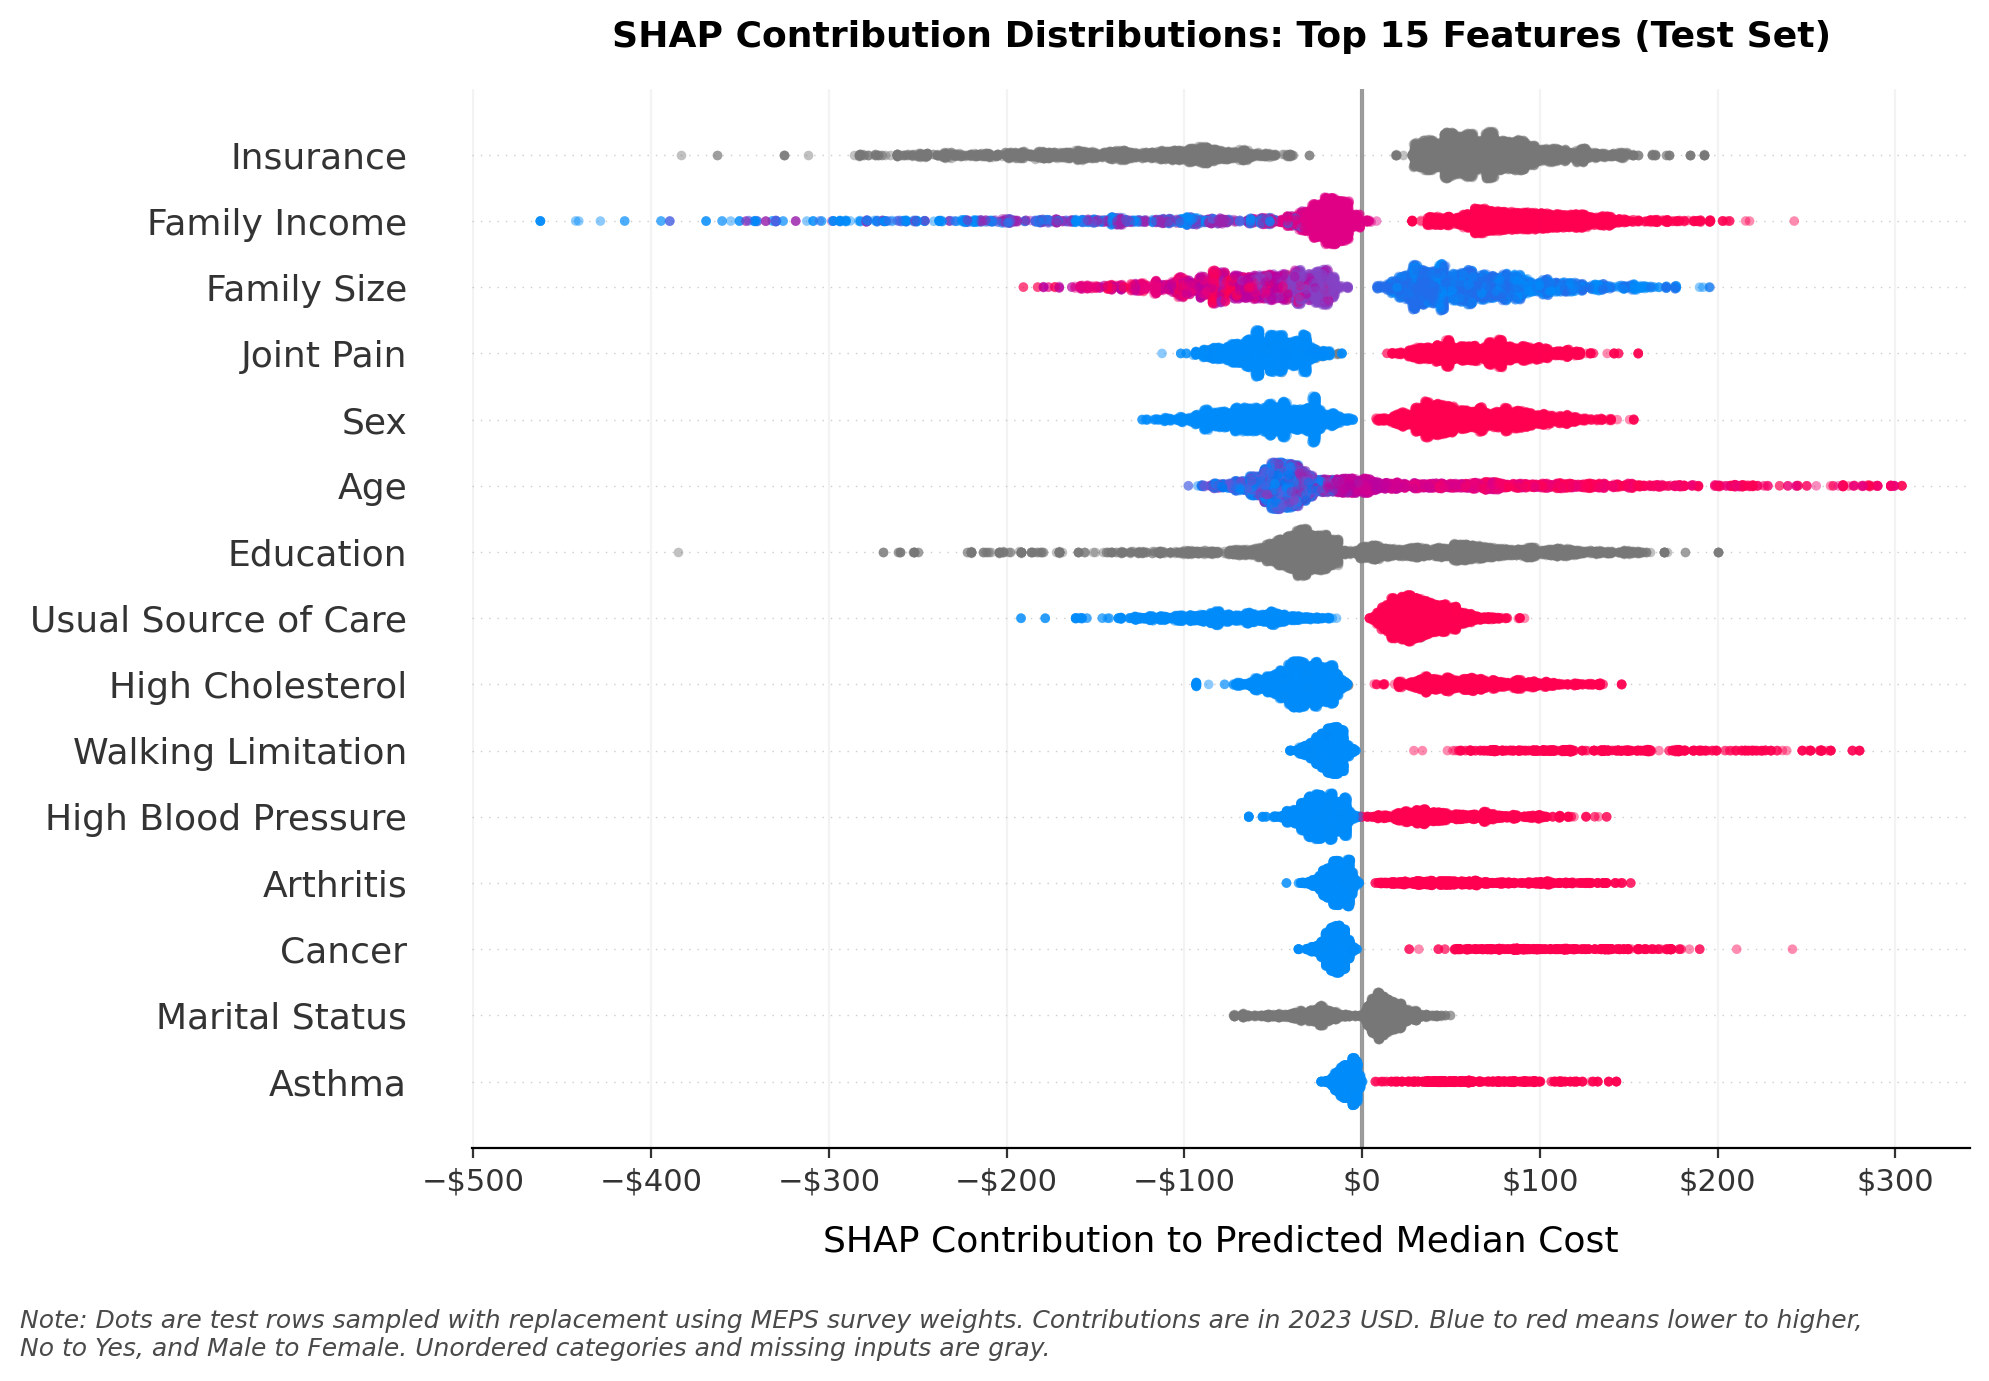
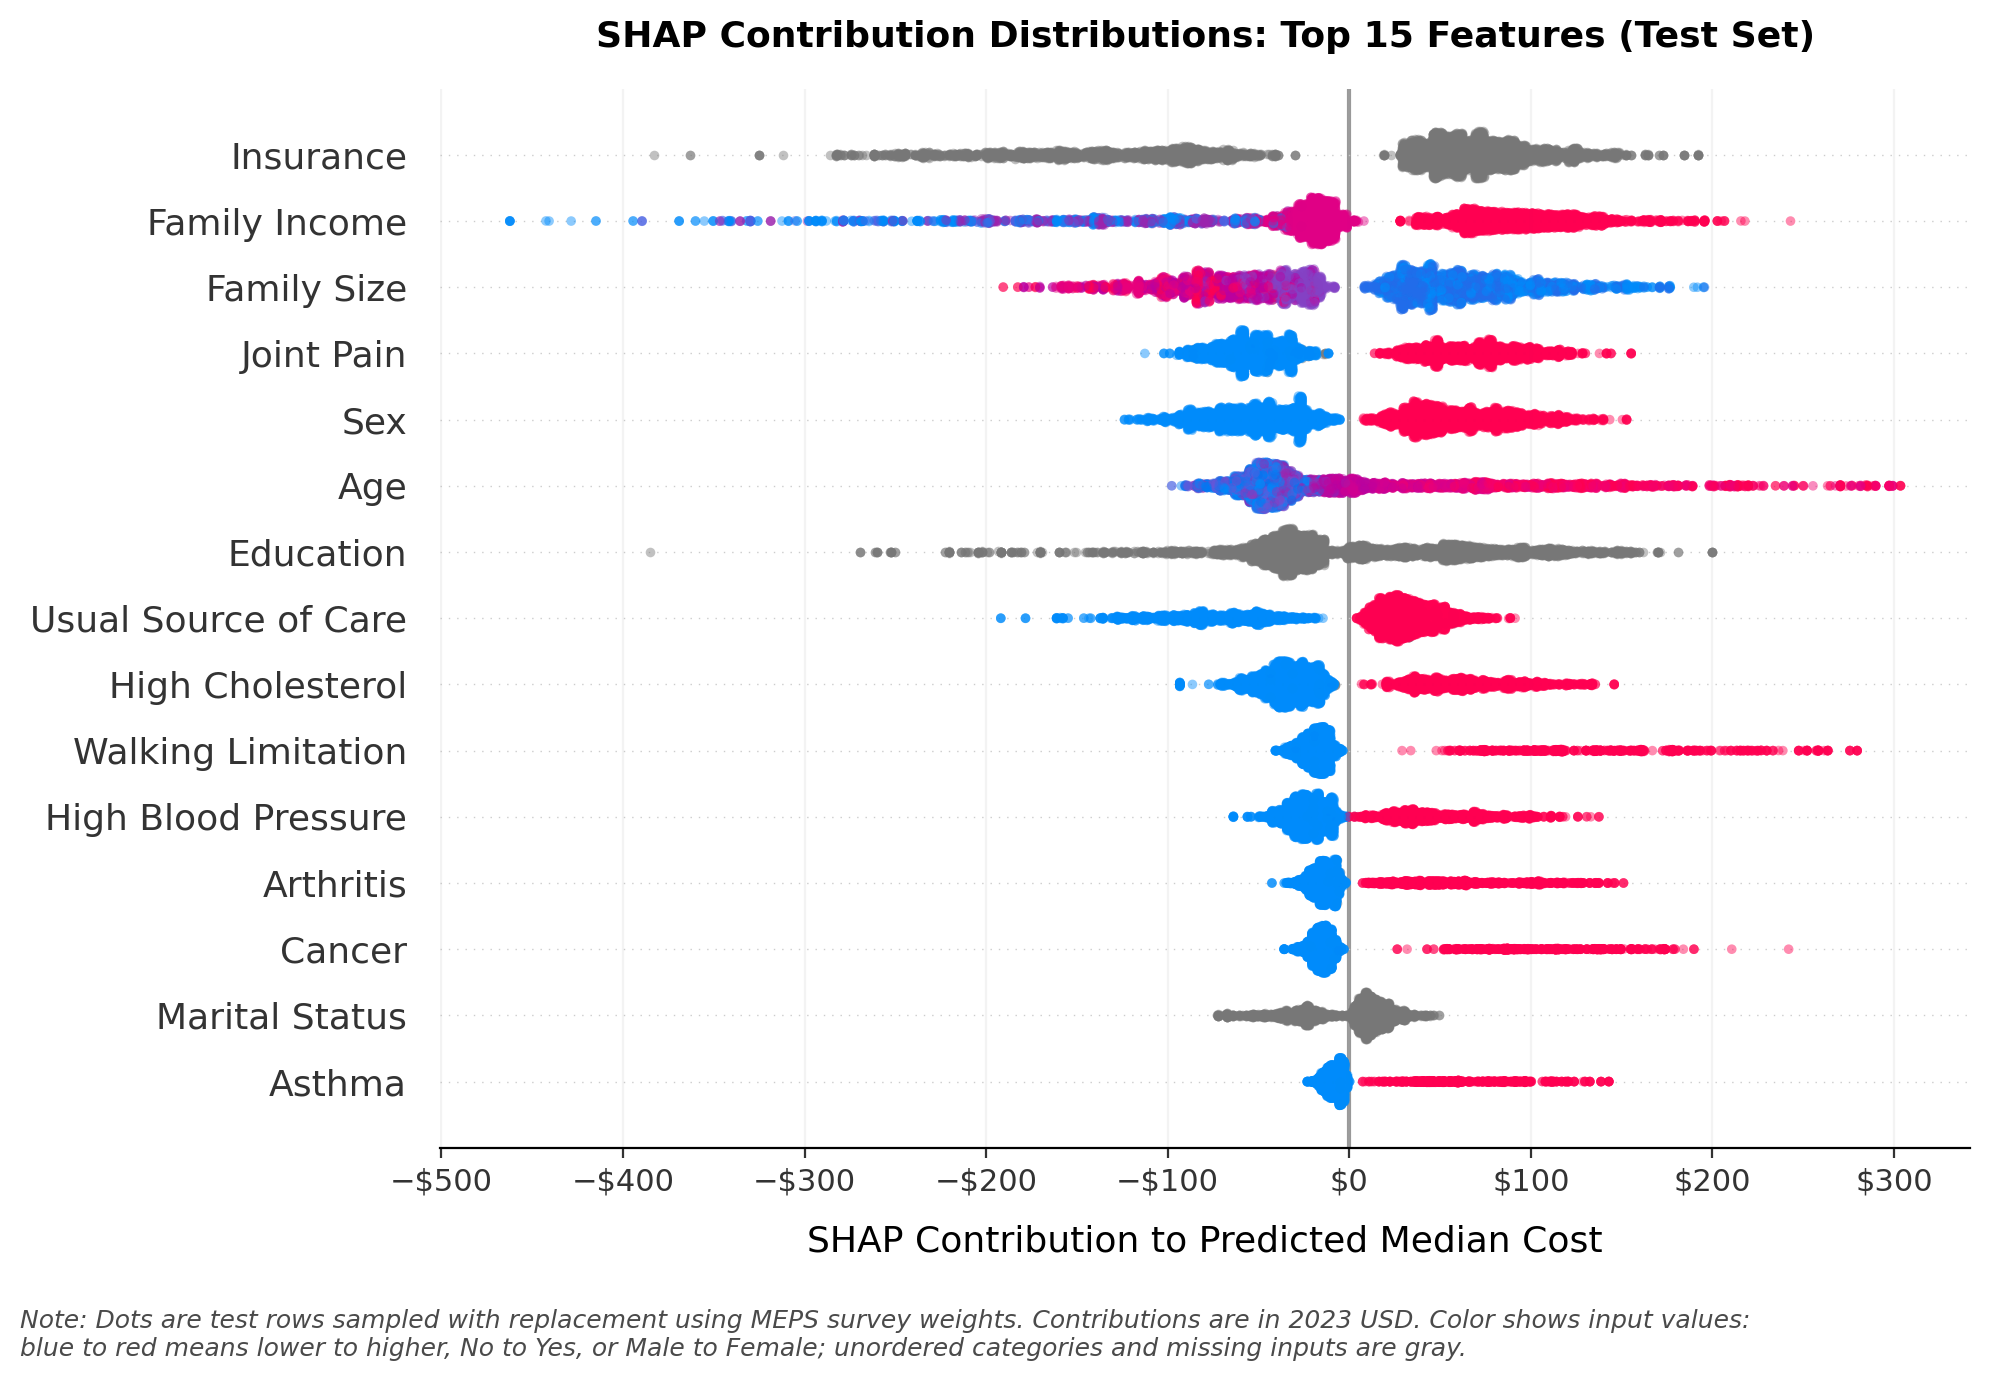
docs(eval): clarify SHAP beeswarm results
Clarify the plot note and contribution insights, bring the y-axis
labels closer to the plot, and update the saved figure.

diff --git a/notebooks/2_modeling.py b/notebooks/2_modeling.py
@@ -4820,13 +4820,14 @@ ax.xaxis.set_major_formatter(
 )
 ax.grid(axis="x", alpha=0.15)
 ax.set_axisbelow(True)
+ax.tick_params(axis="y", pad=-8)
 
 fig.text(
     0.01,
     0.01,
     (
-        "Note: Dots are test rows sampled with replacement using MEPS survey weights. Contributions are in 2023 USD. Blue to red means lower to higher,\n"
-        "No to Yes, and Male to Female. Unordered categories and missing inputs are gray."
+        "Note: Dots are test rows sampled with replacement using MEPS survey weights. Contributions are in 2023 USD. Color shows input values:\n"
+        "blue to red means lower to higher, No to Yes, or Male to Female; unordered categories and missing inputs are gray."
     ),
     ha="left",
     va="bottom",
@@ -4840,7 +4841,9 @@ fig.savefig(
     bbox_inches="tight",
     dpi=200,
 )
-plt.show()# %% [markdown]
+plt.show()
+
+# %% [markdown]
 # <div style="background-color:#f7fff8; padding:15px; border:3px solid #e0f0e0; border-radius:6px;">
 #     💡 <b>Insights:</b>
 #     <ul style="margin-top:10px; margin-bottom:8px">
@@ -4849,11 +4852,11 @@ plt.show()# %% [markdown]
 #             <ul>
 #                 <li><strong>Medical need:</strong> Conditions and limitations generally move estimates up when present and down when absent.</li>
 #                 <li><strong>Demographic:</strong> Older ages, Female, and smaller families move estimates up; younger ages, Male, and larger families move them down.</li>
-#                 <li><strong>Socioeconomic:</strong> Higher family income moves estimates up and lower family income moves them down.</li>
+#                 <li><strong>Socioeconomic:</strong> Lower family income tends to contribute negatively; middle income is usually negative but closer to zero; high income contributes positively.</li>
 #                 <li><strong>Healthcare access:</strong> Having a usual source of care moves estimates up, while not having one moves them down.</li>
 #             </ul>
 #         </li>
-#         <li><strong>Unordered categories need a closer look:</strong> Insurance, Education, and Marital Status are gray, so the plot shows their contribution distributions but not which categories drive each direction.</li>
+#         <li><strong>Unordered categories need a closer look:</strong> Insurance has substantial contributions in both directions, but its gray dots do not reveal which insurance category produced each one. Education and Marital Status have the same limitation; the next plot separates the categories.</li>
 #         <li><strong>Limitations:</strong> These contributions explain q50 only. They may differ for q90 and do not show that changing an input would cause actual costs to change.</li>
 #     </ul>
 # </div>
